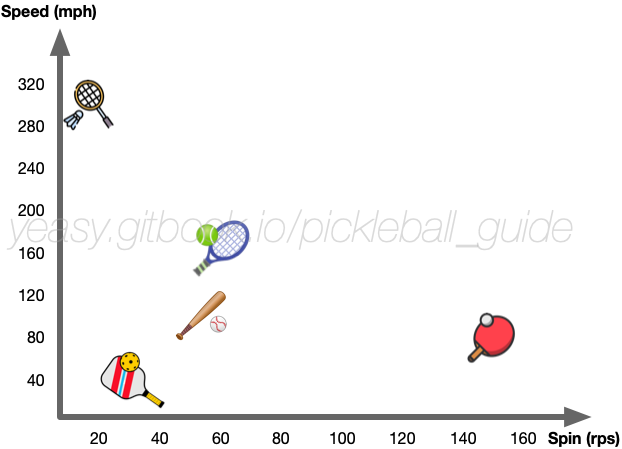
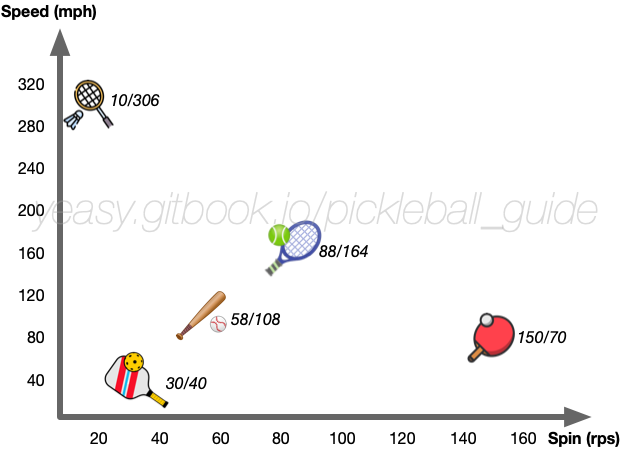
Update figure

diff --git a/12_spin_en.md b/12_spin_en.md
@@ -28,9 +28,9 @@ Pay attention that when adding spin to the ball, because part of the energy turn
 
 The spin of the pickle ball is not generated by simply rubbing the ball using the paddle surface, but by hitting different positions of the ball with the paddle and wrapping the ball at the same time. Therefore, when using the spin, it is necessary to focus on hitting the ball mainly, and cooperate with the following wrapping and pushing of the ball. Remember to "first hit and then rotate".
 
-The spin of the pickleball is not very fast, usually below 30 rotations per second (tennis can exceed 50 rps, and table tennis can exceed 100 rps), and the flight of the ball is not quick. Spin has little effect on the ball's flight path, but it changes the direction of the ball's motion after bouncing from the ground. The graph below compares the fastest spin and flight speeds for popular ball games.
+The spin of the pickleball is not very fast, usually below 20 revolutions per second (tennis can exceed 50 rps, and table tennis can exceed 100 rps), and the flight of the ball is not quick. Spin has little effect on the ball's flight path, but it changes the direction of the ball's motion after bouncing from the ground. The graph below compares the fastest spin and flight speeds for popular ball games.
 
-![The Fastest Spin and Flight Speed of Popular Racket sports](_images/spin-speed.png)
+![The Fastest Spin and Flight Speed of Popular Ball Sports](_images/spin-speed.png)
 
 ## Handle Spinning Balls
 

diff --git a/12_spin_cn.md b/12_spin_cn.md
@@ -28,7 +28,7 @@
 
 匹克球的旋转并非单纯靠拍面摩擦球产生，而是通过球拍击打球的不同位置，同时转动拍面包裹球产生。因此，在使用旋转时，要以击打为主，配合对球的包裹推动，要做到“先打后磨”。
 
-匹克球的旋转不算很快，通常低于 30 转/秒（网球可以超到 50 转/秒，乒乓球可以超过 100 转/秒），球的飞行也较慢。旋转对球的飞行轨迹影响不大，但会改变触地后球的运动方向。下图比较了常见球类运动的最快旋转和飞行速度。
+匹克球的旋转不算很快，通常低于 20 转/秒（网球可以超到 50 转/秒，乒乓球可以超过 100 转/秒），球的飞行也较慢。旋转对球的飞行轨迹影响不大，但会改变触地后球的运动方向。下图比较了常见球类运动的最快旋转和飞行速度。
 
 ![不同球类运动的最快旋转和飞行速度](_images/spin-speed.png)
 